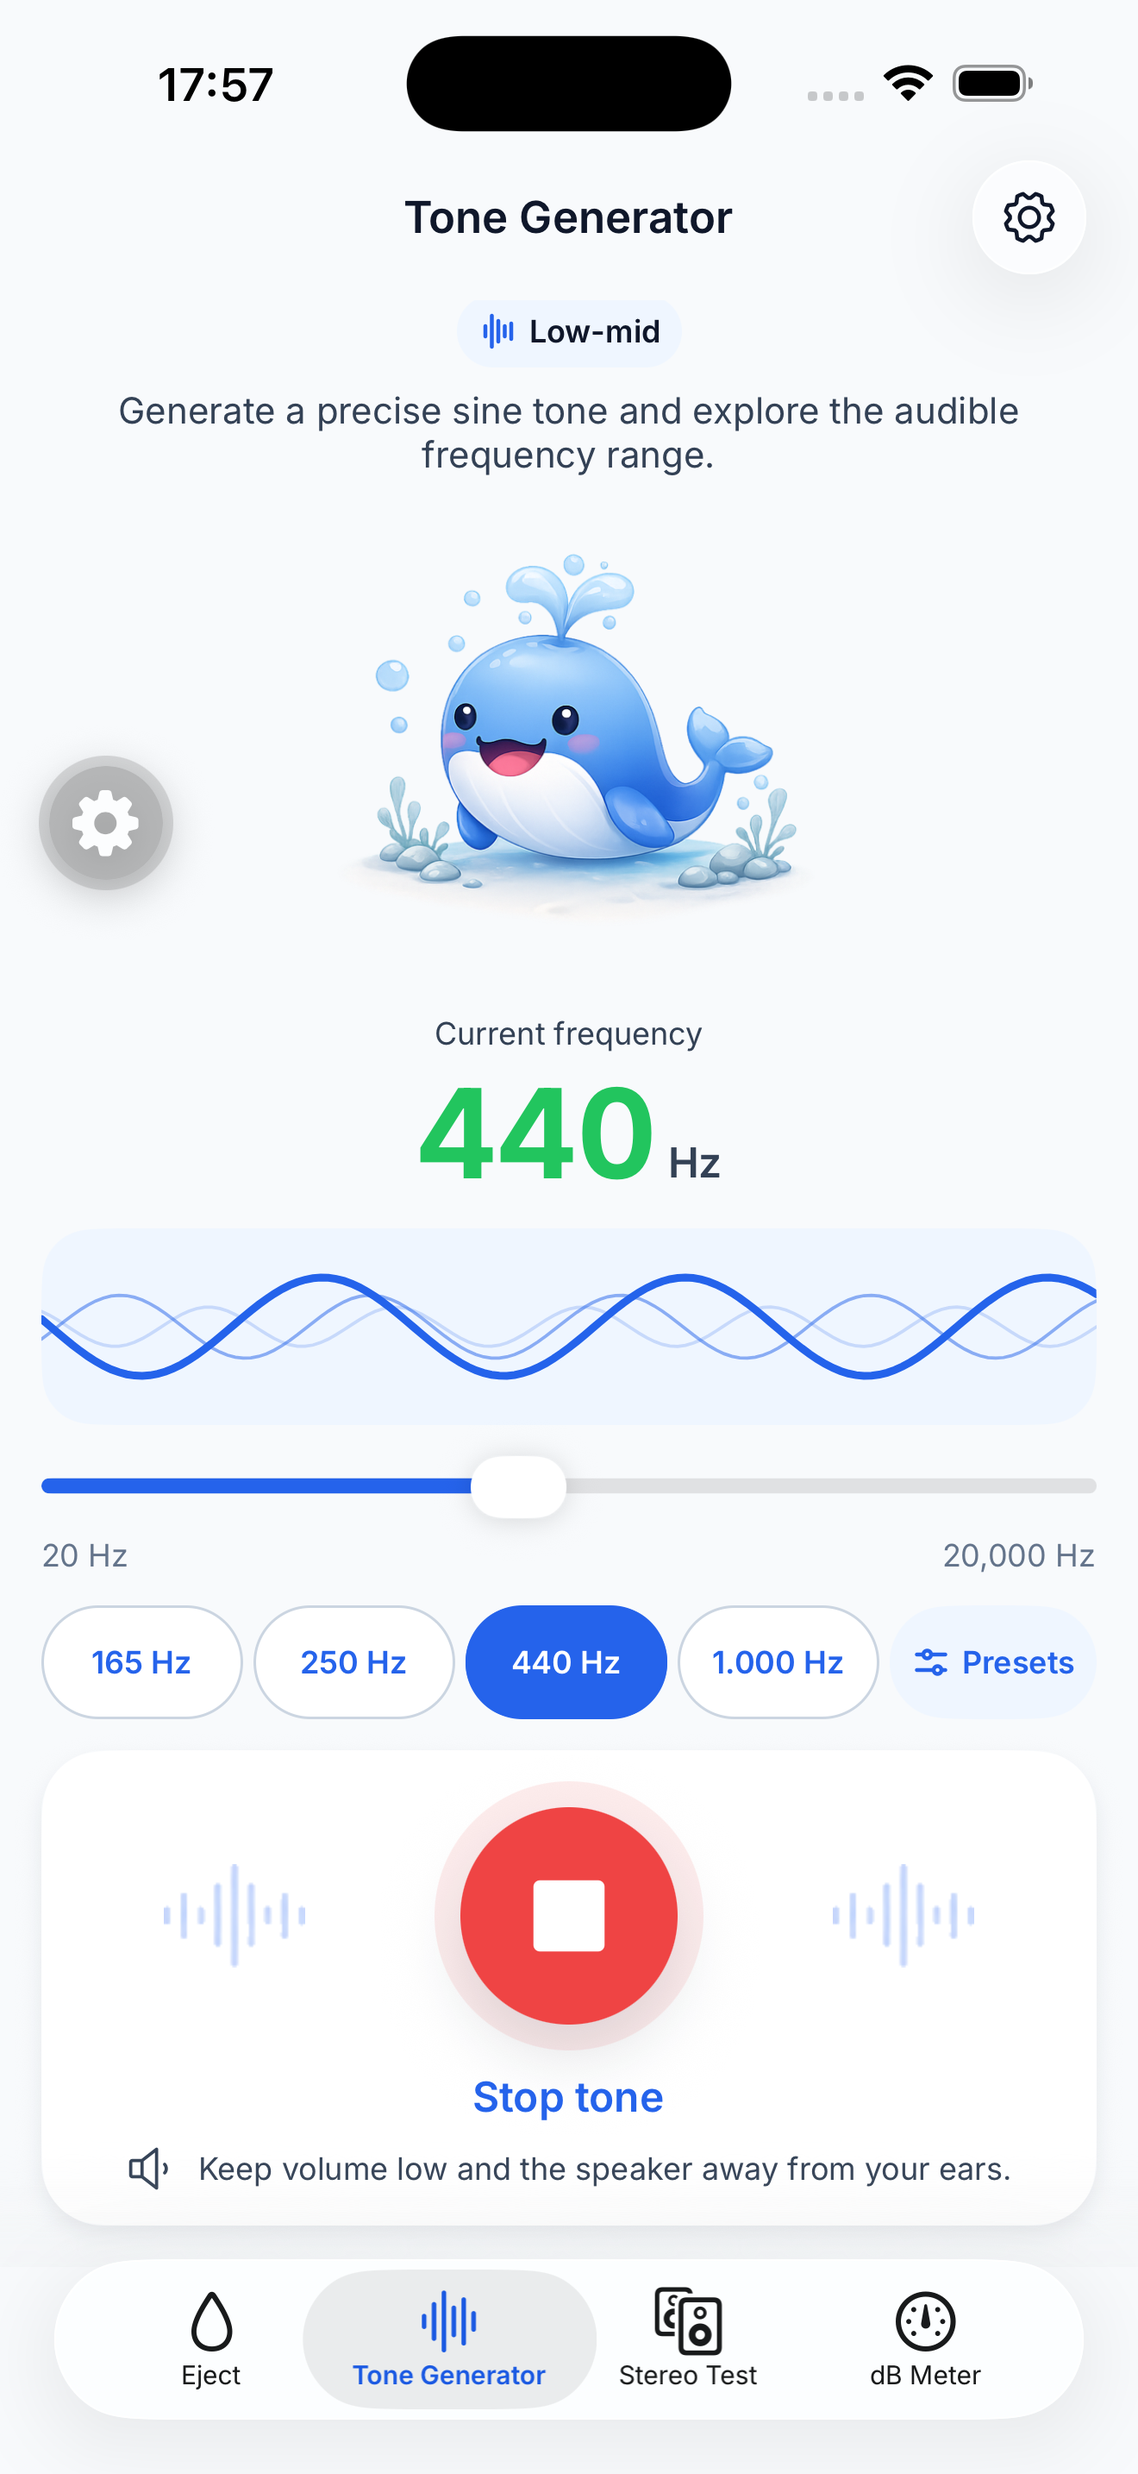
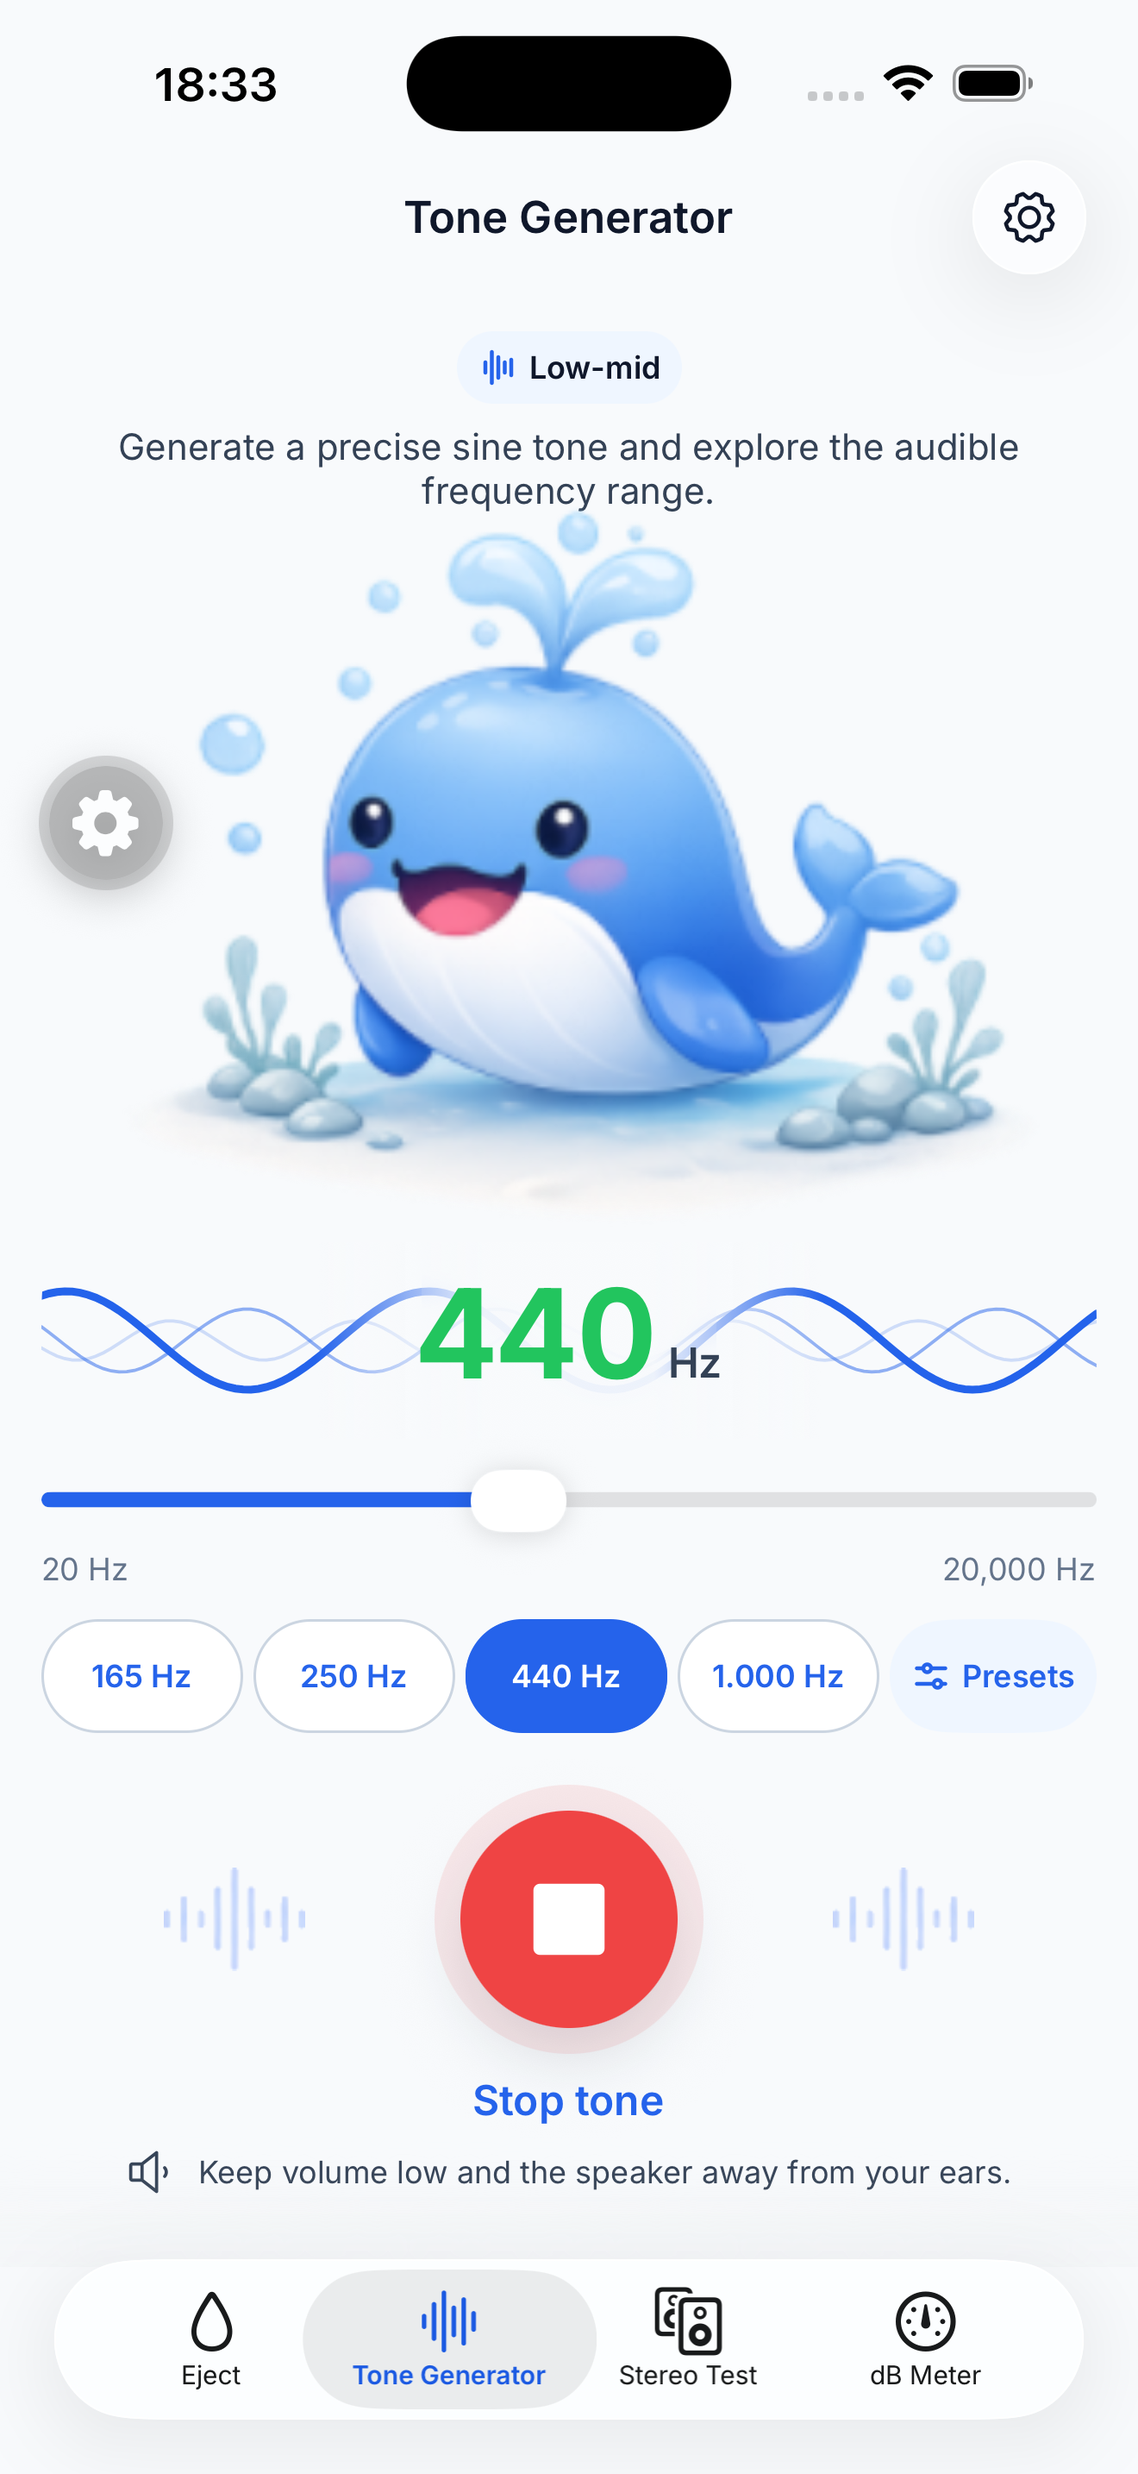
feat(tone): overlay frequency on waveform

diff --git a/src/app/(tabs)/tone-generator/index.tsx b/src/app/(tabs)/tone-generator/index.tsx
@@ -41,6 +41,7 @@ import { createThemedStyles, iconSizes, useTheme, useThemedStyles } from '@/them
 
 const PRESETS = [165, 250, 440, 1_000, 8_000, 12_000] as const
 const QUICK_PRESETS = PRESETS.slice(0, 4)
+const CENTER_FADE_INTENSITY = 0.3
 
 export default function ToneGeneratorScreen() {
   const { t } = useTranslation()
@@ -200,36 +201,18 @@ export default function ToneGeneratorScreen() {
 
         <MascotHero
           active={isRunning}
-          compact
+          compact={isCompactLayout}
           showWaves={false}
           accentColor={waveformColor}
-          style={isCompactLayout && styles.mascotCompact}
+          style={[styles.mascot, isCompactLayout && styles.mascotCompact]}
         />
 
         <View style={styles.frequencyBlock}>
-          <Text variant="caption" tone="secondary" align="center">
-            {t('audioTools.tone.currentFrequency')}
-          </Text>
-          <View style={styles.frequencyRow}>
-            <Text
-              variant="title"
-              weight="bold"
-              align="center"
-              style={[styles.frequencyValue, { color: waveformColor }]}>
-              {formattedFrequency}
-            </Text>
-            <Text variant="subtitle" weight="semibold" tone="secondary" style={styles.unit}>
-              Hz
-            </Text>
-          </View>
-
           <GestureDetector gesture={panGesture}>
             <View
               accessible
               accessibilityActions={[{ name: 'increment' }, { name: 'decrement' }]}
-              accessibilityLabel={t('audioTools.tone.waveformLabel', {
-                frequency: formattedFrequency,
-              })}
+              accessibilityLabel={`${t('audioTools.tone.currentFrequency')}: ${formattedFrequency} Hz`}
               accessibilityRole="adjustable"
               accessibilityValue={{
                 min: 20,
@@ -247,8 +230,23 @@ export default function ToneGeneratorScreen() {
                 accessibilityLabel={t('audioTools.tone.waveformLabel', {
                   frequency: formattedFrequency,
                 })}
+                centerFadeIntensity={CENTER_FADE_INTENSITY}
                 style={[styles.waveform, isCompactLayout && styles.waveformCompact]}
               />
+              <View pointerEvents="none" style={styles.frequencyOverlay}>
+                <View style={styles.frequencyRow}>
+                  <Text
+                    variant="title"
+                    weight="bold"
+                    align="center"
+                    style={[styles.frequencyValue, { color: waveformColor }]}>
+                    {formattedFrequency}
+                  </Text>
+                  <Text variant="subtitle" weight="semibold" tone="secondary" style={styles.unit}>
+                    Hz
+                  </Text>
+                </View>
+              </View>
             </View>
           </GestureDetector>
 
@@ -349,9 +347,13 @@ const createStyles = createThemedStyles((t) => ({
   status: {
     alignSelf: 'center',
   },
+  mascot: {
+    transform: [{ scale: 1.4 }],
+    marginVertical: t.spacing.xs,
+  },
   mascotCompact: {
-    transform: [{ scale: 0.86 }],
-    marginVertical: -t.spacing.md,
+    transform: [{ scale: 0.96 }],
+    marginVertical: -t.spacing.sm,
   },
   frequencyBlock: {
     alignItems: 'center',
@@ -373,6 +375,16 @@ const createStyles = createThemedStyles((t) => ({
   },
   waveformAdjuster: {
     width: '100%',
+    position: 'relative',
+  },
+  frequencyOverlay: {
+    position: 'absolute',
+    top: 0,
+    right: 0,
+    bottom: 0,
+    left: 0,
+    alignItems: 'center',
+    justifyContent: 'center',
   },
   waveform: {
     height: 76,
@@ -419,11 +431,7 @@ const createStyles = createThemedStyles((t) => ({
     alignItems: 'center',
     gap: t.spacing.sm,
     paddingHorizontal: t.spacing.lg,
-    paddingVertical: t.spacing.md,
-    borderCurve: 'continuous',
-    borderRadius: t.borderRadius['2xl'],
-    backgroundColor: t.colors.background.surface,
-    ...t.shadows.sm,
+    paddingVertical: t.spacing.sm,
   },
   actionControlRow: {
     width: '100%',

diff --git a/src/components/audio/FrequencyWaveform.tsx b/src/components/audio/FrequencyWaveform.tsx
@@ -1,16 +1,21 @@
 import { Canvas, Group, Path, useClock, usePathValue } from '@shopify/react-native-skia'
+import { BlurView } from 'expo-blur'
+import { LinearGradient } from 'expo-linear-gradient'
 import { useEffect } from 'react'
 import { type LayoutChangeEvent, type StyleProp, View, type ViewStyle } from 'react-native'
 import { useReducedMotion, useSharedValue, withTiming } from 'react-native-reanimated'
 
 import { normalizeFrequency } from '@/services/audio'
-import { createThemedStyles, useThemedStyles } from '@/theme'
+import { createThemedStyles, useTheme, useThemedStyles } from '@/theme'
+import { withAlpha } from '@/utils/color'
 
 interface FrequencyWaveformProps {
   frequencyHz: number
   active: boolean
   color: string
   accessibilityLabel: string
+  /** Controls how strongly the waves are softened behind an overlaid readout. */
+  centerFadeIntensity?: number
   style?: StyleProp<ViewStyle>
 }
 
@@ -19,8 +24,10 @@ export const FrequencyWaveform = ({
   active,
   color,
   accessibilityLabel,
+  centerFadeIntensity = 0.3,
   style,
 }: FrequencyWaveformProps) => {
+  const { appearance, colors } = useTheme()
   const styles = useThemedStyles(createStyles)
   const reducedMotion = useReducedMotion()
   const clock = useClock()
@@ -28,6 +35,16 @@ export const FrequencyWaveform = ({
   const height = useSharedValue(0)
   const normalizedFrequency = useSharedValue(normalizeFrequency(frequencyHz))
   const isActive = useSharedValue(active && !reducedMotion ? 1 : 0)
+  const resolvedFadeIntensity = Math.min(Math.max(centerFadeIntensity, 0), 1)
+  const centerVeilAlpha = 1 - (1 - resolvedFadeIntensity) ** 8
+  const centerVeilColors = [
+    withAlpha(colors.background.base, 0),
+    withAlpha(colors.background.base, 0),
+    withAlpha(colors.background.base, centerVeilAlpha),
+    withAlpha(colors.background.base, centerVeilAlpha),
+    withAlpha(colors.background.base, 0),
+    withAlpha(colors.background.base, 0),
+  ] as const
 
   useEffect(() => {
     normalizedFrequency.value = withTiming(normalizeFrequency(frequencyHz), { duration: 180 })
@@ -136,6 +153,24 @@ export const FrequencyWaveform = ({
         </Group>
         <Path path={primaryPath} color={color} style="stroke" strokeWidth={3} strokeCap="round" />
       </Canvas>
+      {resolvedFadeIntensity > 0 ? (
+        <>
+          <BlurView
+            pointerEvents="none"
+            intensity={resolvedFadeIntensity * 35}
+            tint={appearance}
+            style={[styles.centerBlur, { opacity: resolvedFadeIntensity * 0.6 }]}
+          />
+          <LinearGradient
+            pointerEvents="none"
+            colors={centerVeilColors}
+            locations={[0, 0.26, 0.42, 0.58, 0.74, 1]}
+            start={{ x: 0, y: 0.5 }}
+            end={{ x: 1, y: 0.5 }}
+            style={styles.centerVeil}
+          />
+        </>
+      ) : null}
     </View>
   )
 }
@@ -147,9 +182,22 @@ const createStyles = createThemedStyles((t) => ({
     overflow: 'hidden',
     borderCurve: 'continuous',
     borderRadius: t.borderRadius.xl,
-    backgroundColor: t.colors.primary.soft,
   },
   canvas: {
     flex: 1,
+  },
+  centerBlur: {
+    position: 'absolute',
+    top: 0,
+    right: '36%',
+    bottom: 0,
+    left: '36%',
+  },
+  centerVeil: {
+    position: 'absolute',
+    top: 0,
+    right: 0,
+    bottom: 0,
+    left: 0,
   },
 }))

diff --git a/design-qa.md b/design-qa.md
@@ -49,55 +49,53 @@ The idle layout matches the selected Option 1 hierarchy and the running state pr
 
 ---
 
-# Tone Generator focused layout — design QA
+# Tone Generator overlay layout — design QA
 
 ## Visual truth
 
-- Selected source: `docs/design/references/tone-generator-focused-approved.png`
-- Gauge override source: `docs/design/references/tone-generator-three-wave-reference.jpg`
+- Final selected source: `docs/design/references/tone-generator-overlay-final.png`
+- Supporting wave reference: `docs/design/references/tone-generator-three-wave-reference.jpg`
 - Target: Tone Generator tab, light appearance, 440 Hz idle state
-- User-requested refinement: keep the Play tone card in the same content parent as the upper controls instead of rendering it as a sticky footer
+- Required refinements: no waveform panel background, no Play tone section background, a larger mascot, and the frequency readout layered over the three-wave gauge with a softer adjustable center treatment.
 
 ## Implementation evidence
 
 - Idle: `docs/design/implementation/2026-07-21/tone-generator-idle.png`
 - Running: `docs/design/implementation/2026-07-21/tone-generator-running.png`
-- Full-view comparison: `docs/design/implementation/2026-07-21/tone-generator-idle-comparison.png`
-- Focused gauge comparison: `docs/design/implementation/2026-07-21/tone-generator-three-wave-focused-comparison.png`
-- Simulator: iPhone 17 Pro Max, iOS 26.5
-- Viewport capture: 1320 × 2868, light appearance, 440 Hz
-- The approved source was normalized to the implementation canvas and placed beside the rendered app in one comparison image.
-- The full-view comparison keeps the typography, mascot, slider, presets, action card, safety copy, and tab-bar clearance readable. The new gauge motif was also compared in a dedicated source-versus-implementation crop because its three overlapping strokes are too fine to judge reliably in the full screen.
+- Full-view comparison: `docs/design/implementation/2026-07-21/tone-generator-overlay-final-comparison.png`
+- Focused gauge comparison: `docs/design/implementation/2026-07-21/tone-generator-overlay-gauge-comparison.png`
+- Simulator: the existing iPhone 17 Pro Max instance, iOS 26.5
+- Viewport: 1320 × 2868, light appearance, 440 Hz
+- The source was normalized to the implementation canvas and placed beside the rendered screen. A separate semantic crop compares the layered readout and fine wave treatment at readable scale.
 
 ## Findings
 
 - No actionable P0, P1, or P2 mismatch remains.
-- Fonts and typography: the implementation preserves the app's configured type system, hierarchy, tabular frequency numerals, weights, wrapping, and localized labels. The native header and compact control labels remain legible without truncation.
-- Spacing and layout rhythm: the status, subtitle, mascot, frequency block, gauge, presets, and Play tone card follow the approved vertical hierarchy. The action card is now a sibling of those sections inside `AudioToolScreen`'s content container; the separate footer wrapper has been removed.
-- Colors and visual tokens: surfaces, borders, shadows, and controls use project theme tokens. The gauge uses one full-strength primary-blue path plus medium- and low-opacity supporting paths, while the 440 Hz readout retains the existing semantic low-mid band color as intentional product behavior.
-- Image quality and asset fidelity: the existing whale mascot asset is sharp and correctly cropped. The Play/Stop card uses the user-supplied waveform ornament with its background removed and transparency preserved; it is not an icon approximation or code-drawn substitute. The simulator's gray floating gear at the left edge is a Simulator Tools overlay, not app UI.
-- Copy and content: title, frequency status, subtitle, presets, Play/Stop label, and safety guidance are localized and complete. The safety sentence is intentionally more explicit than the abbreviated mock copy.
-- Native product differences: the implementation retains the real iOS status bar, native header spacing, settings control, and app tab bar.
+- Fonts and typography: the app's configured family, hierarchy, weights, line heights, wrapping, and tabular frequency numerals are preserved. The layered value and Hz unit remain readable over all three paths and no control label truncates.
+- Spacing and layout rhythm: merging the readout into the gauge reclaims vertical space for the larger mascot. The slider, presets, floating Play controls, safety cue, and native tab bar retain clear separation. Both requested section backgrounds, their radii, and the Play section shadow are absent.
+- Colors and visual tokens: the background-free gauge uses the theme's primary blue at three weights/opacities. The readout retains its semantic frequency-band color. The center veil derives from `background.base`, so it feathers into the page without introducing a colored panel.
+- Image quality and asset fidelity: the whale is the existing sharp product asset and now carries the intended hero weight. The two Play ornaments use the supplied transparent raster asset rather than an approximation. The gray left-edge gear is a Simulator Tools overlay and is not app UI.
+- Copy and content: title, status, subtitle, presets, Play/Stop label, and safety guidance remain complete and localized. “Current frequency” is retained in the adjustable control's accessible label while the visual label is omitted to match the selected compact composition.
+- Intentional native differences: the implementation retains the real Dynamic Island/status bar, native header spacing, settings control, product tab bar, and the existing primary control sizing.
 
 ## Interaction and accessibility verification
 
-- Selecting the 440 Hz quick preset updates the status, readout, waveform, slider, and selected chip.
-- The Presets sheet exposes all six presets and returns the selected value to the main screen.
-- The waveform exposes adjustable increment/decrement accessibility actions.
-- Play changes to Stop in the same inline card position; Stop returns the screen to idle and audio was stopped after capture.
-- The primary action and safety guidance remain above the native tab bar on the tested iPhone 17 Pro Max.
+- Selecting 440 Hz updates the readout, waveform, slider, and selected chip.
+- The waveform remains an adjustable accessibility control with increment/decrement actions and announces the current value.
+- Play changes to Stop, the three wave layers animate, and Stop returns to idle; audio was stopped after the final capture.
+- The safety cue and primary action remain fully visible above the native tab bar.
+- No render error remained after the final same-device refresh.
 
 ## Comparison history
 
-1. The first focused implementation comparison found a P2 mascot-scale mismatch: the whale was too small and retained decorative rings. The mascot was enlarged and `showWaves={false}` was applied.
-2. The revised comparison confirmed improved mascot weight and preserved the separate waveform panel and slider selected from Design 2. Remaining differences were classified as intentional native/product behavior or P3 polish.
-3. After the user's inline-card refinement, the sticky footer API was removed, the Play tone card was inserted after the presets in the same content parent, and idle/running Pro Max captures were regenerated. The final comparison shows the complete card clear of the tab bar with no new P0/P1/P2 issue.
-4. The latest comparison identified the line-wave gauge and missing action-card ornaments as remaining source mismatches. The gauge was rebuilt as a responsive five-cluster rounded-bar waveform in primary blue, the exact supplied ornament was placed on both sides of the primary control, and idle/running evidence was regenerated. The post-fix comparison shows both details aligned with the approved source.
-5. The user selected a new three-line wave reference for the gauge. The bar clusters were replaced with three responsive sine paths using distinct frequency, phase, weight, and opacity; active playback moves the layers independently. A focused side-by-side comparison confirms the primary, secondary, and faint detail hierarchy matches the new reference while preserving the app's light panel treatment.
+1. Earlier approved passes established the focused hierarchy, inline Play section, supplied ornaments, and animated three-wave gauge.
+2. The first overlay pass removed both backgrounds and merged the readout with the gauge, but the combined comparison found two P2 mismatches: the mascot remained materially smaller than the final source and the primary wave was too visually busy behind the digits.
+3. The mascot switched from the compact frame to the full Pro Max treatment and the center feather was widened and strengthened while keeping blur itself at the softer `0.3` default. The post-fix full and focused comparisons show the intended hero proportion and a legible layered readout without restoring a panel background.
+4. Idle and running states were re-captured on the existing iPhone 17 Pro Max, and Play → Stop → Play was verified after the visual fixes.
 
 ## Follow-up polish
 
-- P3: the approved concept uses a slightly larger mascot. This may be revisited later if closer concept fidelity is preferred over the current product proportions.
+- P3: the generated source uses a slightly finer, more symmetrical center taper. The implementation intentionally keeps the live paths responsive to frequency and animation, so their exact crossing points vary.
 
 ## Final result
 
